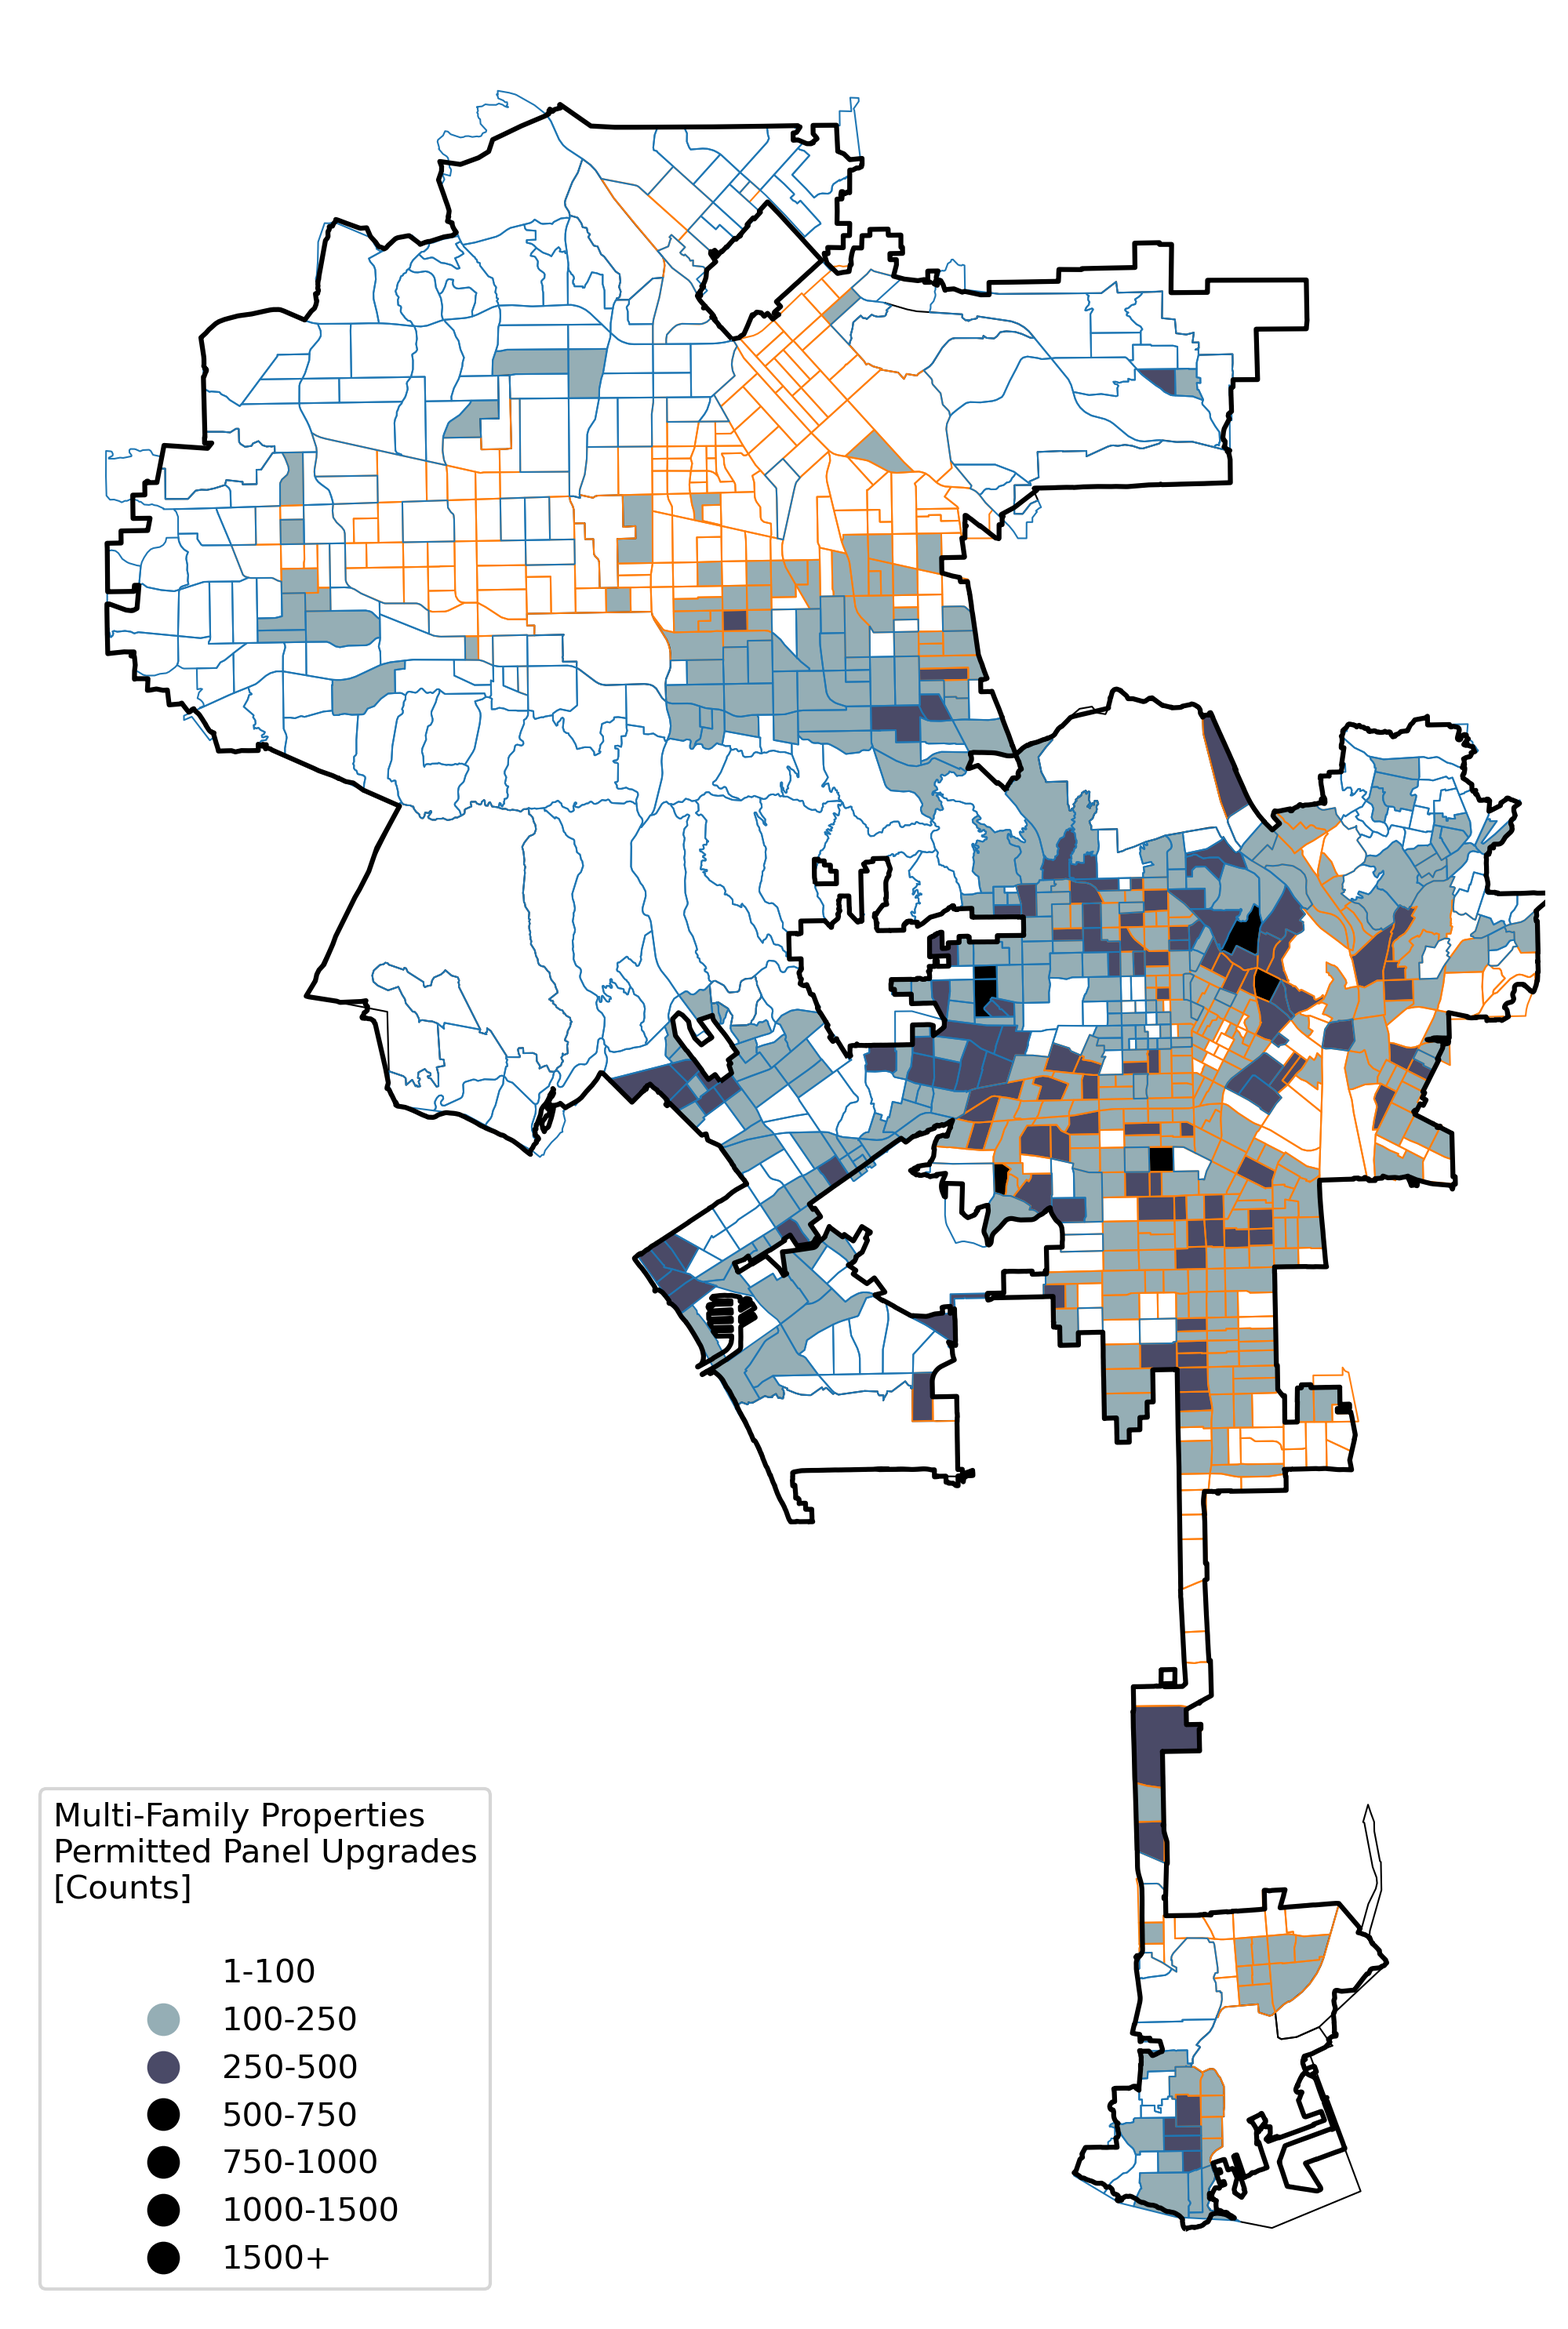
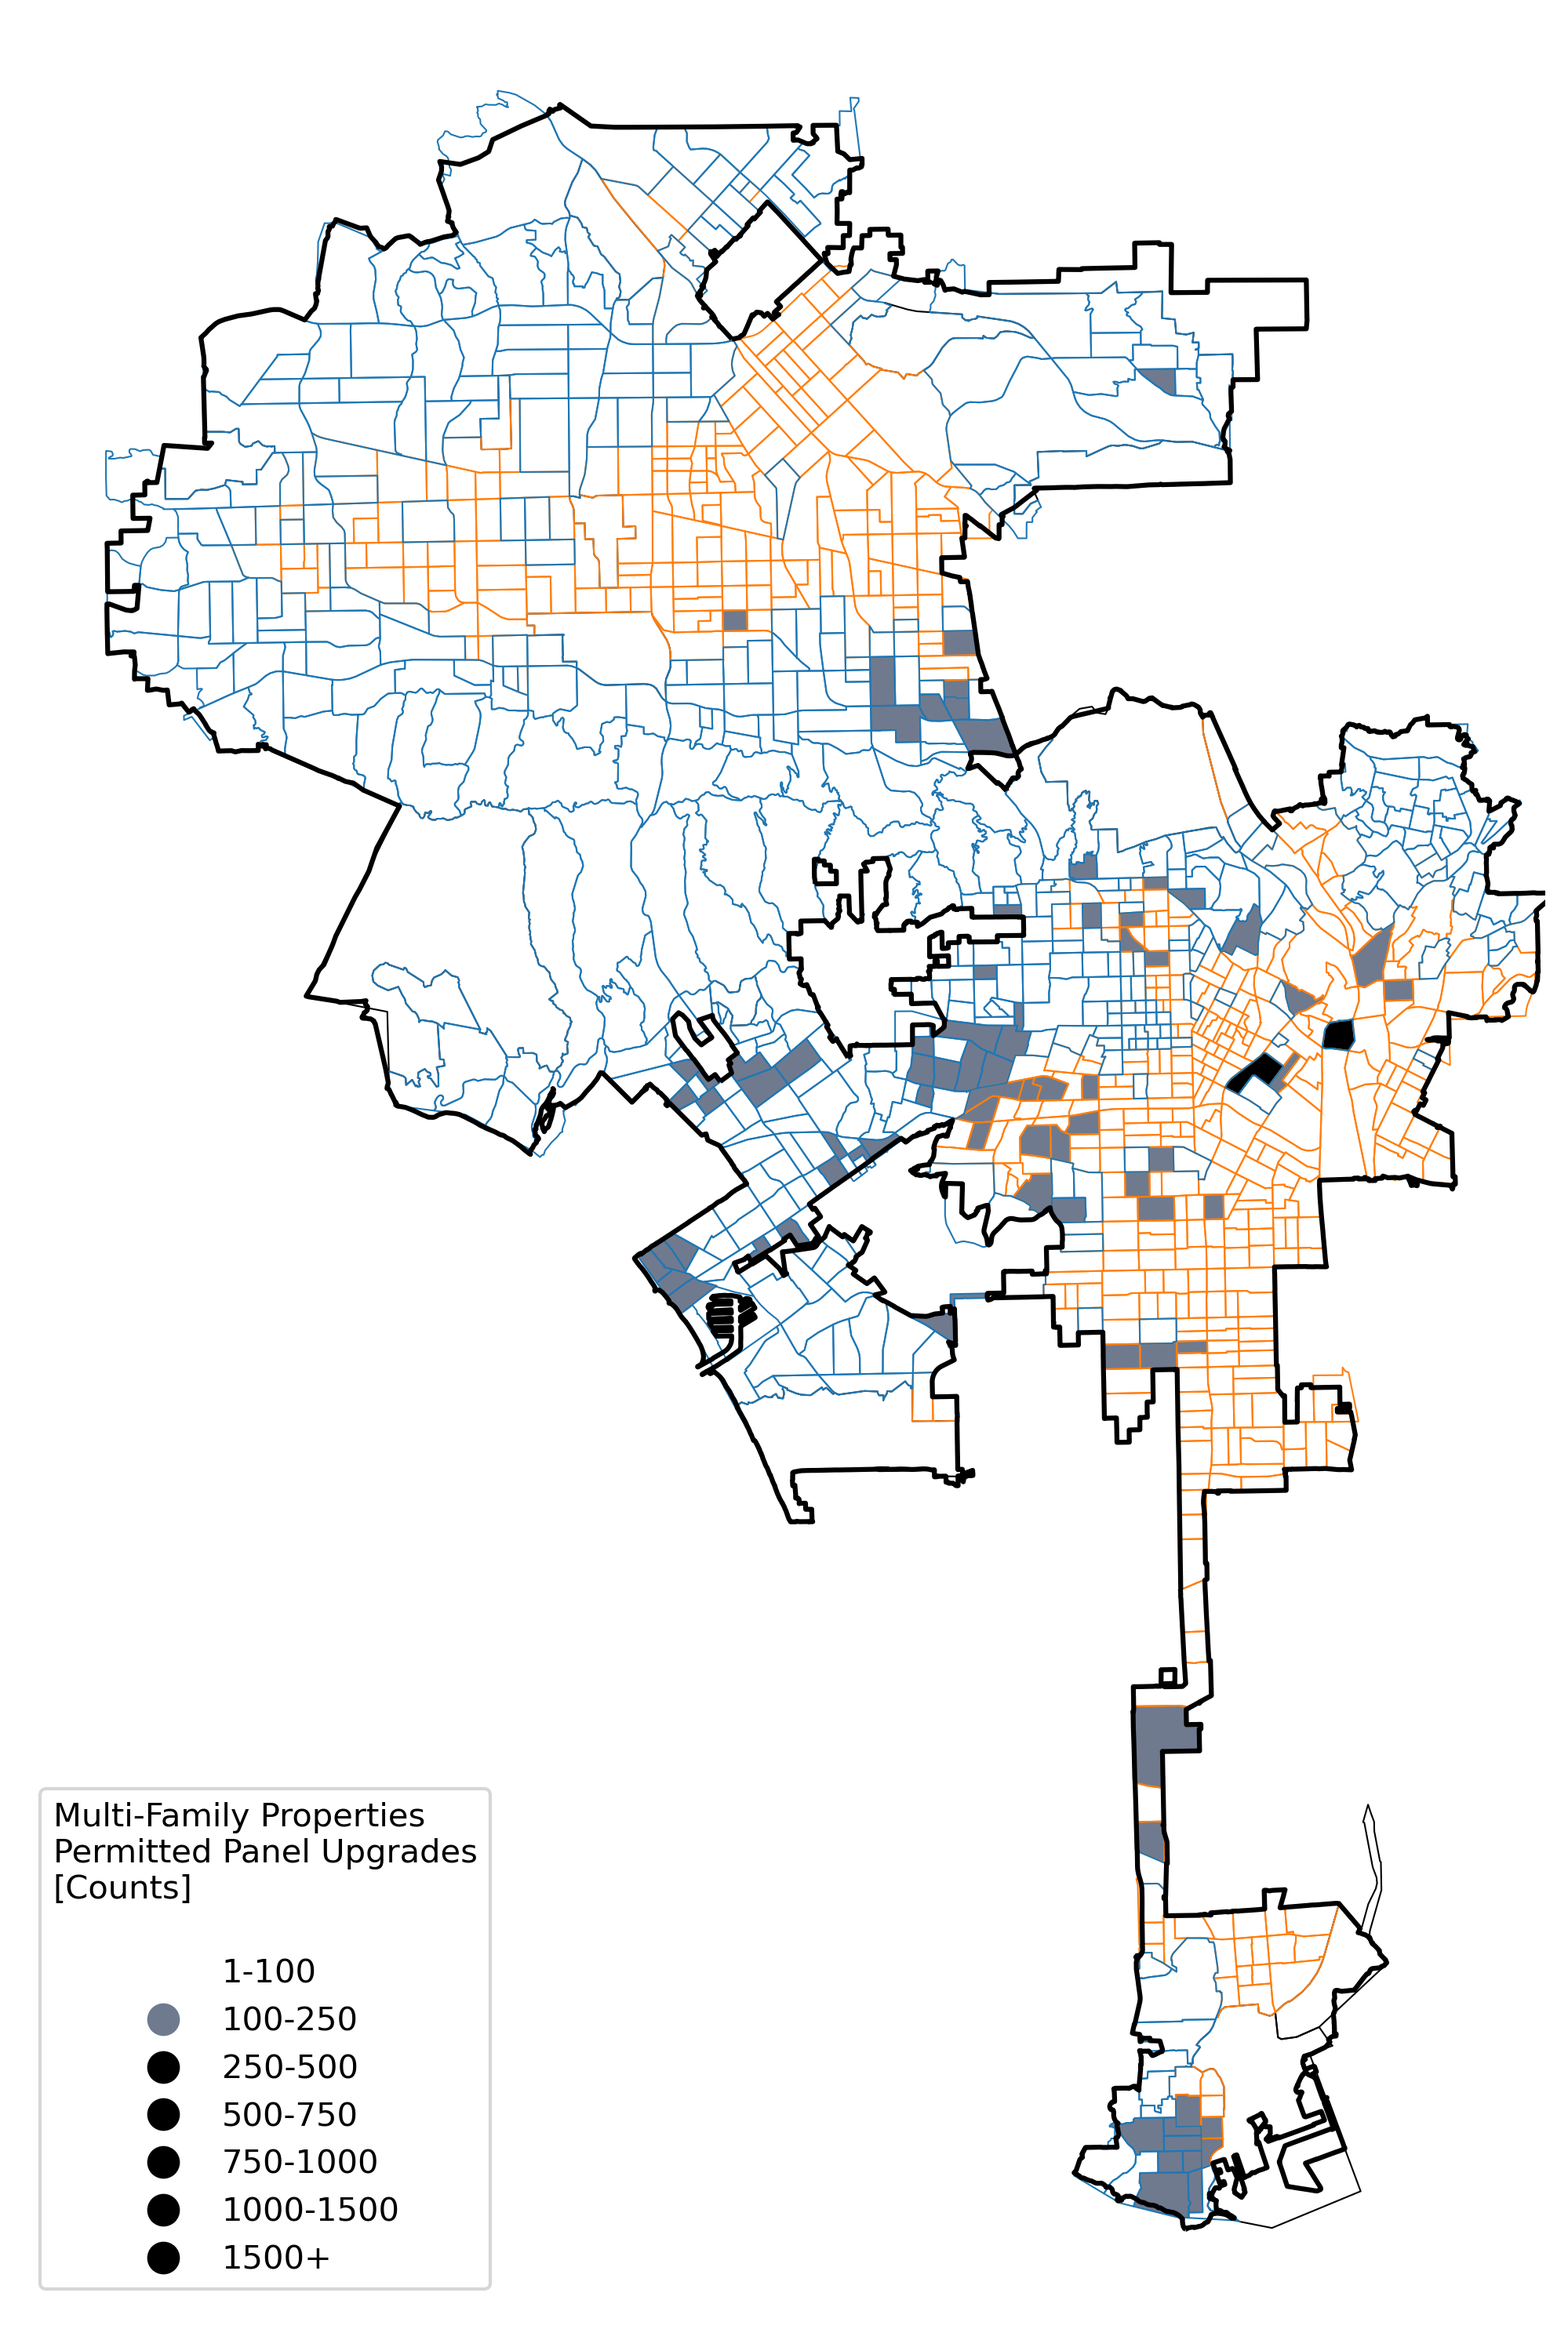
Update figures for MF

diff --git a/pu/pkg/utils.py b/pu/pkg/utils.py
@@ -4,6 +4,32 @@ import pandas as pd
 import geopandas as gpd
 import numpy as np
 
+#%% Coalesce Multi-Family Records
+
+def CoalesceMultiFamily(mf_buildings):
+
+    unique_apns = mf_buildings['apn'].unique()
+    buildings = []
+
+    for apn in unique_apns:
+
+        ind = mf_buildings['apn'] == apn
+        sample = mf_buildings.loc[ind,:].copy()
+
+        if sample.shape[0] > 1:
+            building = sample.iloc[0].copy()
+            descriptions = sample.loc[:,'permit_description'].copy()
+            description = descriptions.str.cat(sep='; ')
+            building.loc['permit_description'] = description
+            buildings.append(building)
+        else:
+            building = sample.copy()
+            buildings.append(building)
+
+    output = pd.concat(buildings, axis = 0)
+
+    return output
+
 #%% Function Merge Parcels with CES Data
 
 def MergeCES(buildings, ces4):
@@ -147,8 +173,8 @@ def PanelUpgradeDiagnostics(buildings_ces):
     '''Function to print diagnostic information about the number
     and location of permitted and inferred panel upgrades'''
 
-    dac_ind = buildings_ces['dac_status'] == 'DAC'
-    non_dac_ind = buildings_ces['dac_status'] == 'Non-DAC'
+    dac_ind = (buildings_ces['dac_status'] == 'DAC') & ~(buildings_ces['panel_size_existing'].isna())
+    non_dac_ind = (buildings_ces['dac_status'] == 'Non-DAC') & ~(buildings_ces['panel_size_existing'].isna())
 
     dac_sample = buildings_ces.loc[dac_ind,:]
     non_dac_sample = buildings_ces.loc[non_dac_ind,:]
@@ -197,8 +223,8 @@ def ExistingPanelRatingsDiagnostics(buildings_ces, sector):
     '''Function to print diagnostic information about the rated capacity of
     existing panels'''
 
-    dac_ind = buildings_ces['dac_status'] == 'DAC'
-    non_dac_ind = buildings_ces['dac_status'] == 'Non-DAC'
+    dac_ind = (buildings_ces['dac_status'] == 'DAC') & ~(buildings_ces['panel_size_existing'].isna())
+    non_dac_ind = (buildings_ces['dac_status'] == 'Non-DAC') & ~(buildings_ces['panel_size_existing'].isna())
 
     dac_sample = buildings_ces.loc[dac_ind,:]
     non_dac_sample = buildings_ces.loc[non_dac_ind,:]

diff --git a/pu/misc/report_calcs.py b/pu/misc/report_calcs.py
@@ -23,6 +23,8 @@ sf_data[['dac_status','building_sqft']].groupby('dac_status').agg(['mean','count
 
 mf_data[['dac_status','building_sqft','units']].groupby('dac_status').agg(['mean','count'])
 
+# %%
+
 #%% Average Vintage Year
 
 sf_data[['dac_status','year_built']].groupby('dac_status').agg(['mean','count'])
@@ -36,6 +38,10 @@ sf_data.groupby(pd.cut(sf_data['year_built'], pd.to_datetime(np.arange(1830, 202
 mf_data.groupby(pd.cut(mf_data['year_built'], pd.to_datetime(np.arange(1850, 2022, 10), format = '%Y'))).agg(['count','mean'])['building_sqft'].to_csv('/Users/edf/Desktop/scratch.csv')
 #%%
 mf_data.groupby(pd.cut(mf_data['year_built'], pd.to_datetime(np.arange(1850, 2022, 10), format = '%Y'))).agg(['mean'])['units'].to_csv('/Users/edf/Desktop/scratch.csv')
+
+#%%
+
+mf_data.groupby(pd.cut(mf_data['year_built'], pd.to_datetime(np.arange(1850, 2022, 10), format = '%Y'))).agg(['mean'])['avg_unit_sqft'].to_csv('/Users/edf/Desktop/scratch2.csv')
 
 #%%
 

diff --git a/pu/main/mf_service_panel_upgrades.py b/pu/main/mf_service_panel_upgrades.py
@@ -58,8 +58,6 @@ plot.ExistingPanelRatingsMap(panel_stats_ces_geo, ces4, ladwp, sector, figure_di
 
 utils.AsBuiltPanelRatingsDiagnostics(mf_buildings_ces, sector)
 utils.PanelUpgradeDiagnostics(mf_buildings_ces)
-
-#%%
 utils.ExistingPanelRatingsDiagnostics(mf_buildings_ces, sector)
 
 #%% Process and Output to File
